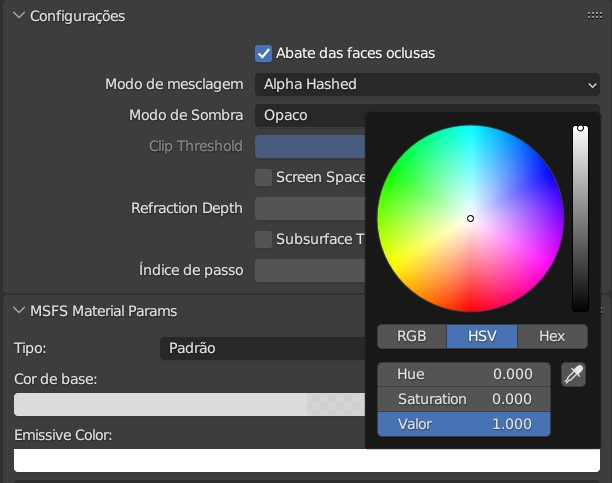
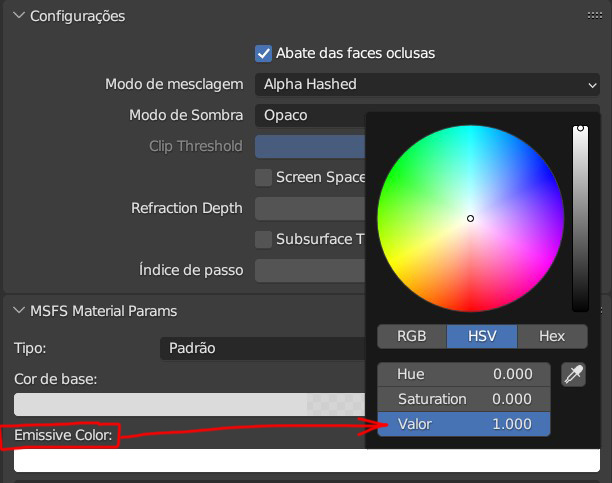
Compatibilidade com a versào 3.6.4

diff --git a/README.md b/README.md
@@ -1,6 +1,6 @@
 ## FlightSim Blender glTF 2.0 Importador e Exportador + Bloom
 
-Este repositório contém uma versão modificada do plugin de importação/exportação do Microsoft Flight Simulator para Blender, baseado na versão 1.3.1 do plugin oficial da Asobo, com algumas pequenas modificações e traduções para o Português do Brasil.
+Este repositório contém uma versão modificada do plugin de importação/exportação do Microsoft Flight Simulator para Blender, baseado na versão 1.3.2 do plugin oficial da Asobo, com algumas pequenas modificações e traduções para o Português do Brasil.
 
 Link do Plugin Oficial:
 https://github.com/AsoboStudio/glTF-Blender-IO-MSFS
@@ -9,29 +9,25 @@ Este plugin desbloqueia o recurso **Emissive Color** responsável por gerar Ligh
 
 #### Como utilizar o efeito Bloom ao gear o gLTF para a SDK
 
-Em **MSFS Material Params**, como na imagem abaixo, selecione **Emissive Color** e aumente seu valor para **1**. Este é o valor máximo de emissão. Observe que agora o objeto passa a emitir a iluminação brilhando no escuro, mas ele ainda não emite o Bloom.
+Em **MSFS Material Params**, como na imagem abaixo, selecione **Emissive Color** e aumente seu valor para **1**. Este é o valor máximo de emissão. Observe que agora o objeto passa a emitir a iluminação brilhando no escuro, mas ele ainda não emite o efeito Bloom.
 
 ![MSFS Material Params](https://github.com/git-exahost/glTF-Blender-IO-MSFS/blob/main/misc/MSFSMaterialParams.jpg)
 
-Para adicionar o efeito Bloom, procure por **Emission Strength** nos parâmetros de superfície, clique em cima e procure por **vincular**. Em seguida, clique em **desconectar**. Veja que agora é possível adicionar valores ao **Emission Strength**, como demonstrado na imagem abaixo. Os valores adicionados a este item geram o efeito Bloom. Fique à vontade para testar diversos valores.
+Para adicionar o efeito Bloom, procure por **General Parameters** e altere o parâmetro **Emissive Scale**, e adicione valores acima de 1; quanto maior o valor, maior será o nível de emissão. Os valores adicionados serão multiplicados pelo **Emissive Color** definido, gerando o efeito Bloom. Fique à vontade para testar diversos valores.
 
-![Emission Strengths](https://github.com/git-exahost/glTF-Blender-IO-MSFS/blob/main/misc/EmissionStrength.jpg)
+![Emission Strengths](https://github.com/git-exahost/glTF-Blender-IO-MSFS/blob/main/misc/GeneralParameters.jpg)
 
 Para ver o resultado do efeito Bloom no Blender sem ter que compilar e gerar o glTF, vá em **Render Properties** e marque o item **Reluzir**, como na imagem abaixo:
 
 ![Reluzir](https://raw.githubusercontent.com/git-exahost/glTF-Blender-IO-MSFS/main/misc/Reluzir.jpg) 
 
-#### Para instalar o plugin do Blender, siga estes passos simples:
+#### Guia de Instalação do Plugin Blender
 
-Esta versão é compatível com o **Blender 3.6**. Instale o **Blender 3.6** utilizando o link abaixo:<br>
-https://www.blender.org/download/releases/3-6/
+Esta versão é projetada para compatibilidade com o **Blender 3.6.4**. Certifique-se de ter o **Blender 3.6.4** instalado, utilizando o link abaixo:<br>
+[Download Blender 3.6.4](https://www.blender.org/download/lts/3-6/)
 
-### Instalaçãos
+### Instruções de Instalação
 
-1. Feche o Blender;<br>
-2. Baixe o arquivo **glTF-Blender-IO-MSFS** clicando em **Releases** em seguida clicando em **glTF-Blender-IO-MSFS.zip**;
-3. Descompact o Zip baixado na pasta **C:\Users\seu usuario\AppData\Roaming\Blender Foundation\Blender\3.6\scripts\addons** ou globalmente em **C:\Program Files\Blender Foundation\Blender 3.6\3.6\scripts\addons**; pode subistituir todos os arquivos do  **io_scene_gltf2**.
-
-  Depois de concluir o processo descrito acima, inicie o Blender e, em seguida, ative o plugin. A ativação é feita a partir das Preferências do Blender.
-
-**NOTA**: Talvez seja necessário reiniciar o Blender novamente depois de ativar o plug-in para que todas as opções fiquem visíveis no IDE.
+1. Certifique-se de que o Blender está fechado.
+2. Faça o download do arquivo **glTF-Blender-IO-MSFS** clicando em **Releases** e, em seguida, clique em **glTF-Blender-IO-MSFS.zip**.
+3. Extraia o conteúdo do arquivo ZIP na seguinte pasta: **C:\Users\seu usuário\AppData\Roaming\Blender Foundation\Blender\3.6\scripts\addons**, ou, de forma global, em **C:\Program Files\Blender Foundation\Blender 3.6\3.6\scripts\addons**.
